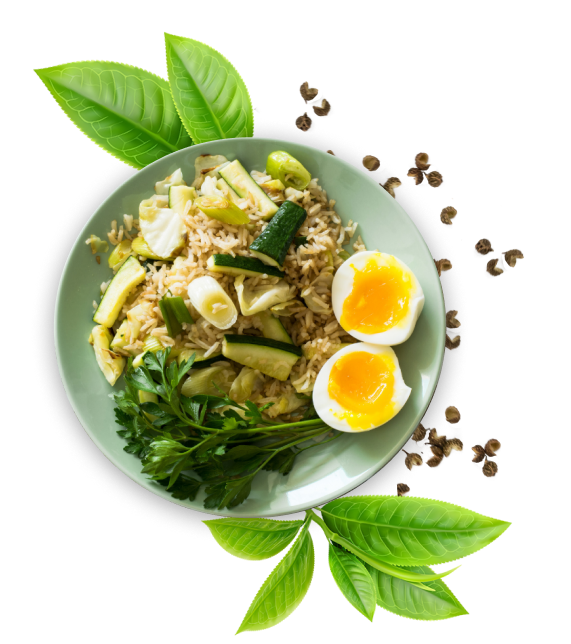
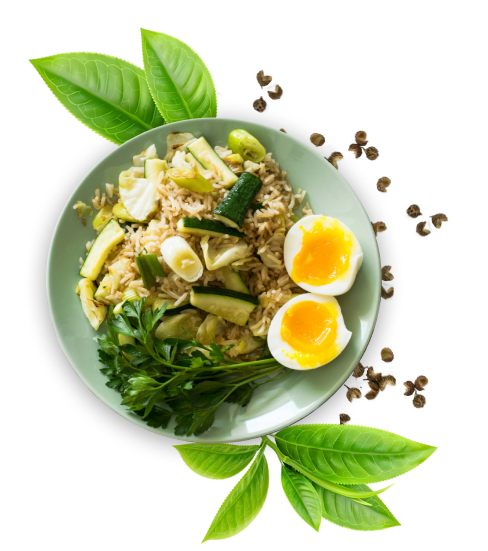
responsive landingpage

diff --git a/src/pages/LandingPage/LandingPage.js b/src/pages/LandingPage/LandingPage.js
@@ -7,7 +7,7 @@ import Logo from "../../assets/mini-logo.png";
 const LandingPage = () => {
   return (
     <div>
-      <div className="box bg-primary w-2/6 h-full absolute -z-1 right-0"></div>
+      <div className="box bg-primary w-3/12 h-full absolute -z-1 right-0 md:w-full md:h-72 sm:w-full sm:h-48"></div>
       <div className="flex items-center justify-between">
         <img src={Logo} alt="logo" />
         <div>
@@ -15,8 +15,8 @@ const LandingPage = () => {
         </div>
       </div>
 
-      <div className="flex px-5 justify-around items-center">
-        <div>
+      <div className="flex px-5 pb-10 justify-around items-center md:flex-col-reverse sm:flex-col-reverse sm:-mt-10">
+        <div className="">
           <Title main>
             Make your <br /> culinary dreams <br /> come true.
           </Title>
@@ -24,7 +24,7 @@ const LandingPage = () => {
             <Button arrow bold text="Get Started" />
           </div>
         </div>
-        <div className="-mt-5 relative overflow-hidden">
+        <div className="-mt-5 sm:mt-0 relative overflow-hidden sm:transform md:transform md:scale-75 sm:scale-75">
           <img src={Jumbotron} alt="jumbotron" data-aos="fade-up" />
         </div>
       </div>

diff --git a/tailwind.config.js b/tailwind.config.js
@@ -1,27 +1,33 @@
 module.exports = {
-  purge: ['./src/**/*.{js,jsx,ts,tsx}', './public/index.html'],
+  purge: ["./src/**/*.{js,jsx,ts,tsx}", "./public/index.html"],
   darkMode: false, // or 'media' or 'class'
   theme: {
     extend: {
       colors: {
         primary: "#FECC4C",
         ternary: "#FE724C",
-        ternary2: "#D64822"
+        ternary2: "#D64822",
       },
       fontFamily: {
-        primary: ["Playfair Display, serif"]
-      }
+        primary: ["Playfair Display, serif"],
+      },
     },
     zIndex: {
-        '-1': -1
+      "-1": -1,
     },
     animation: {
-      'spin-slow': 'bounce 3s linear',
-     },
+      "spin-slow": "bounce 3s linear",
+    },
+    screens: {
+      sm: {max: "519px" },
+      md: { min: "520px", max: "769px" },
+      lg: { min: "1024px", max: "1279px" },
+      xl: { min: "1280px"},
+      "2xl": { min: "1536px" },
+    },
   },
   variants: {
     extend: {},
-
   },
   plugins: [],
-}
+};

diff --git a/src/components/Title/Title.js b/src/components/Title/Title.js
@@ -3,7 +3,7 @@ import React from "react";
 const Title = ({ children, main = false, bold = false }) => {
   return (
     <h1
-      className={`font-primary  ${main ? "md:text-7xl text-5xl" : "text-2xl"} ${
+      className={`font-primary  ${main ? "text-7xl md:text-5xl sm:text-3xl" : "text-2xl"} ${
         bold ? "font-semibold " : "font-normal"
       }`}
     >
